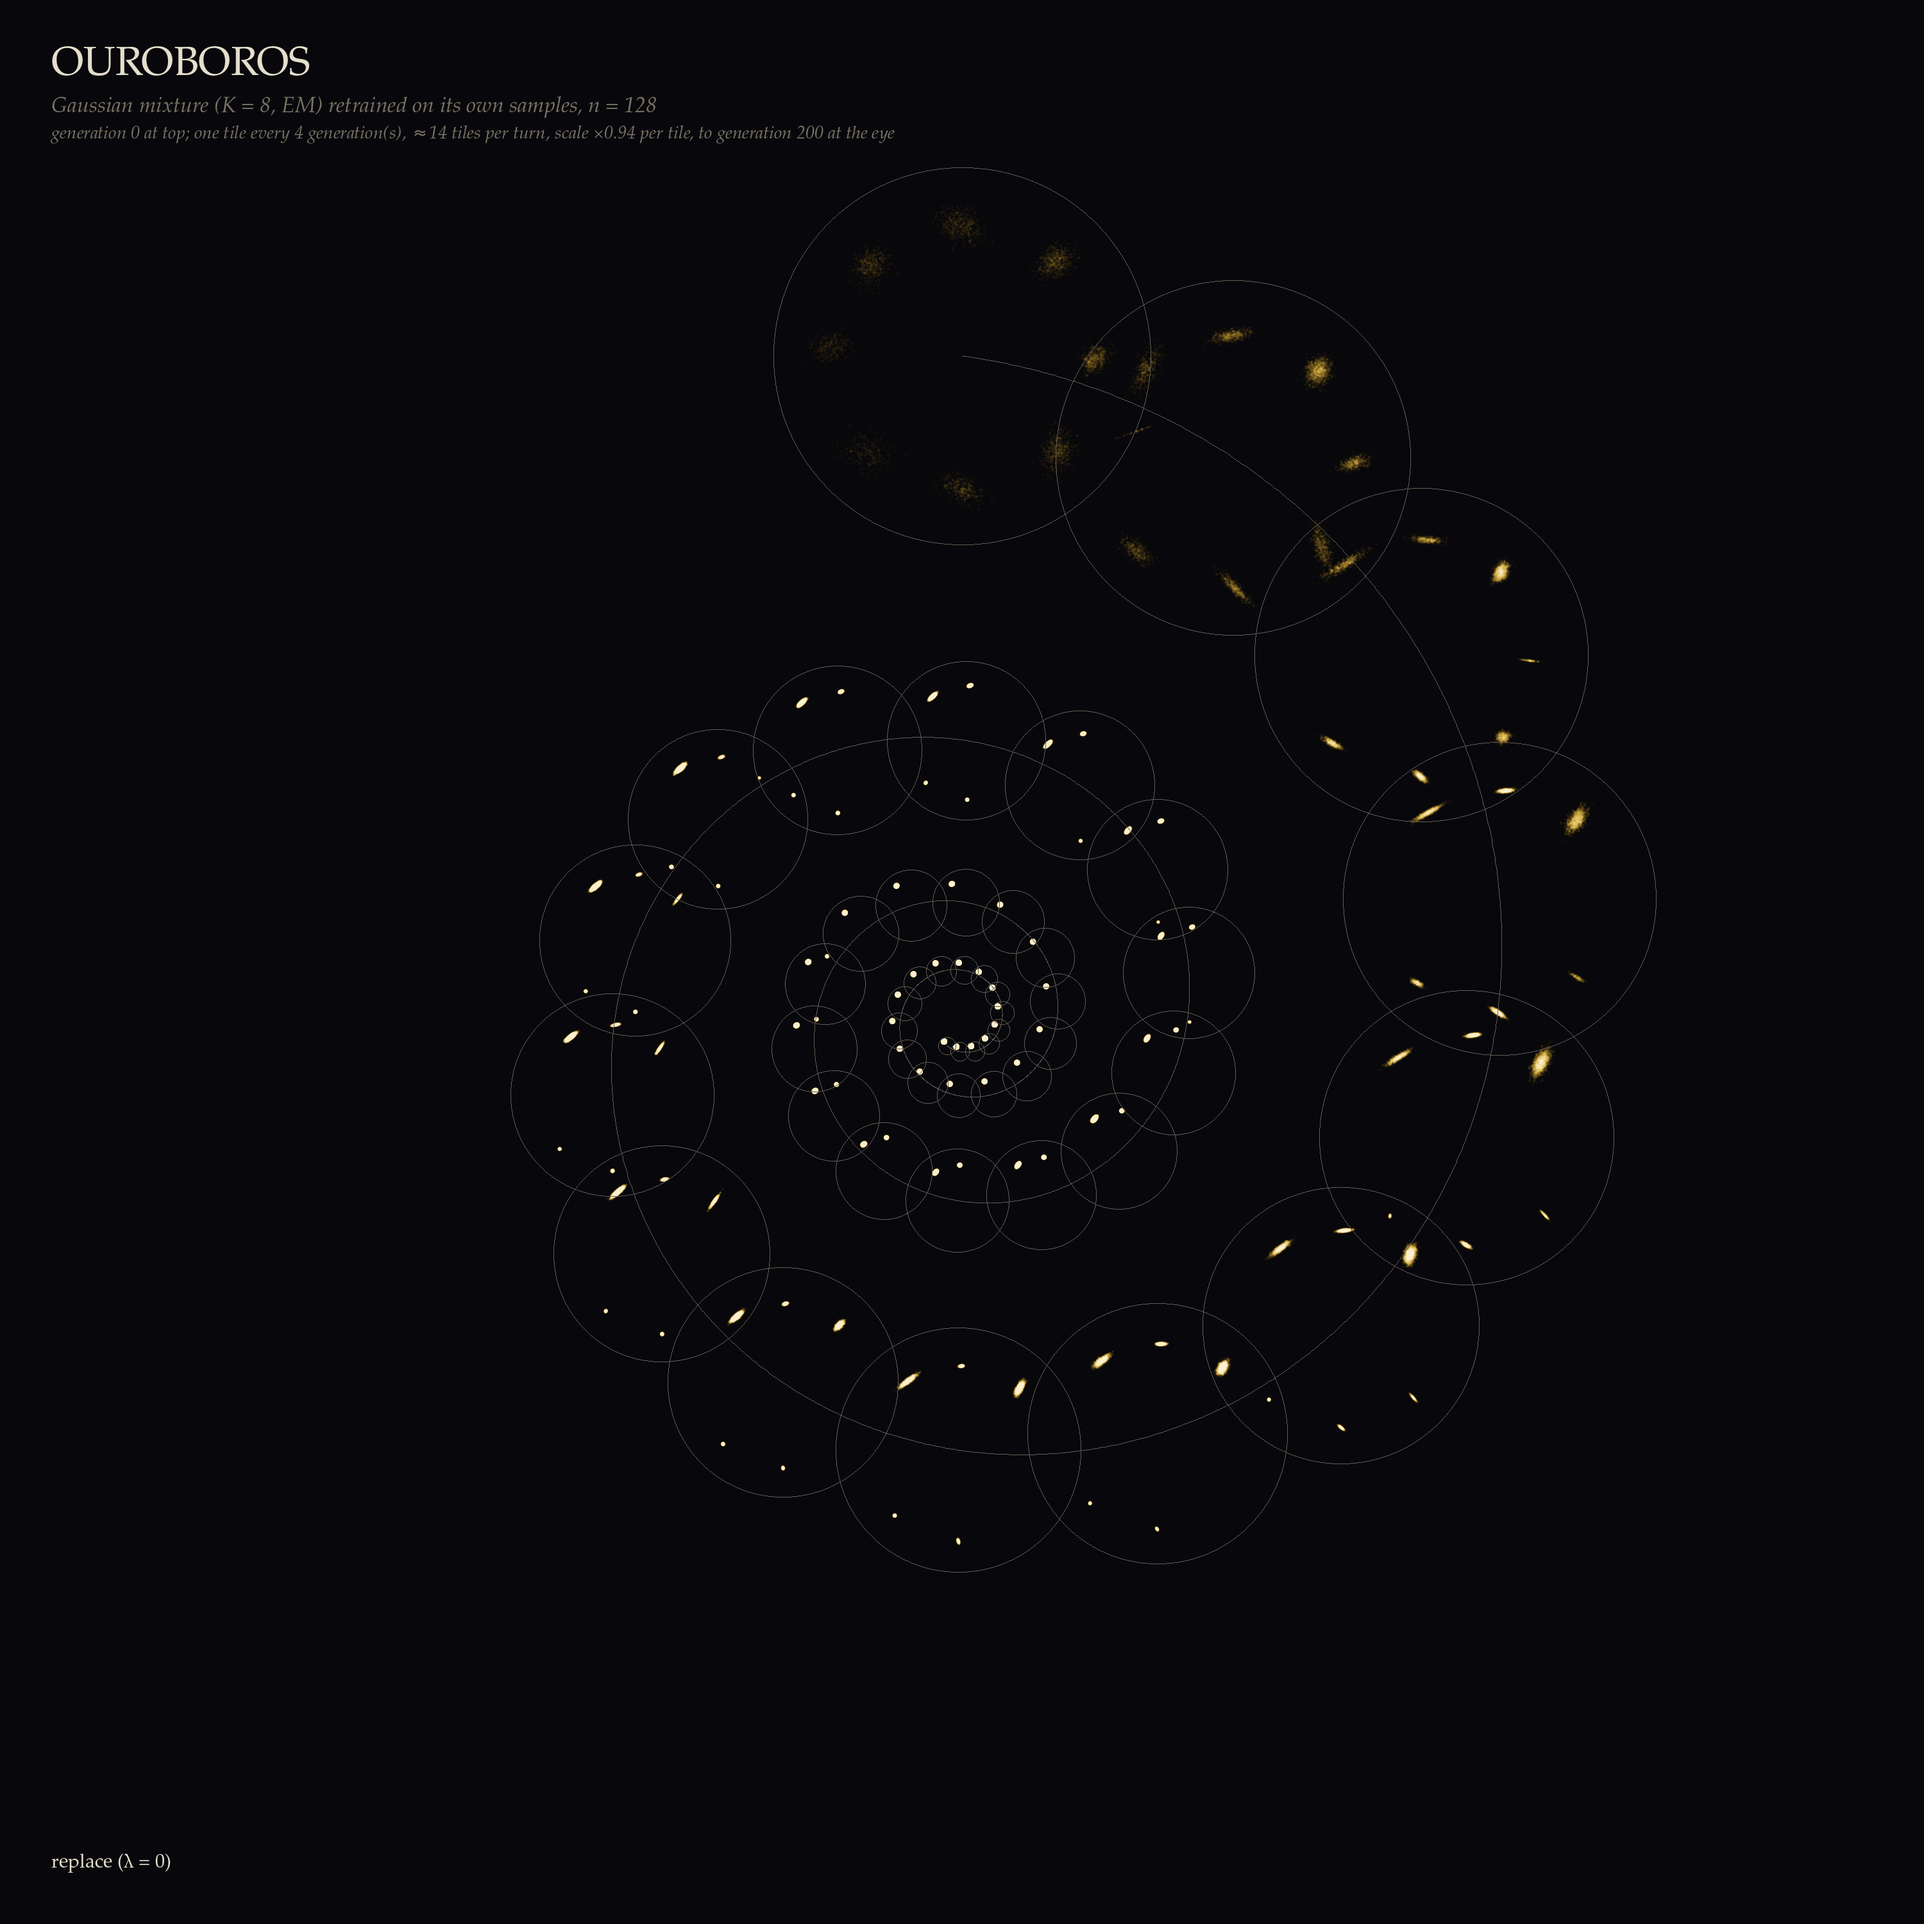
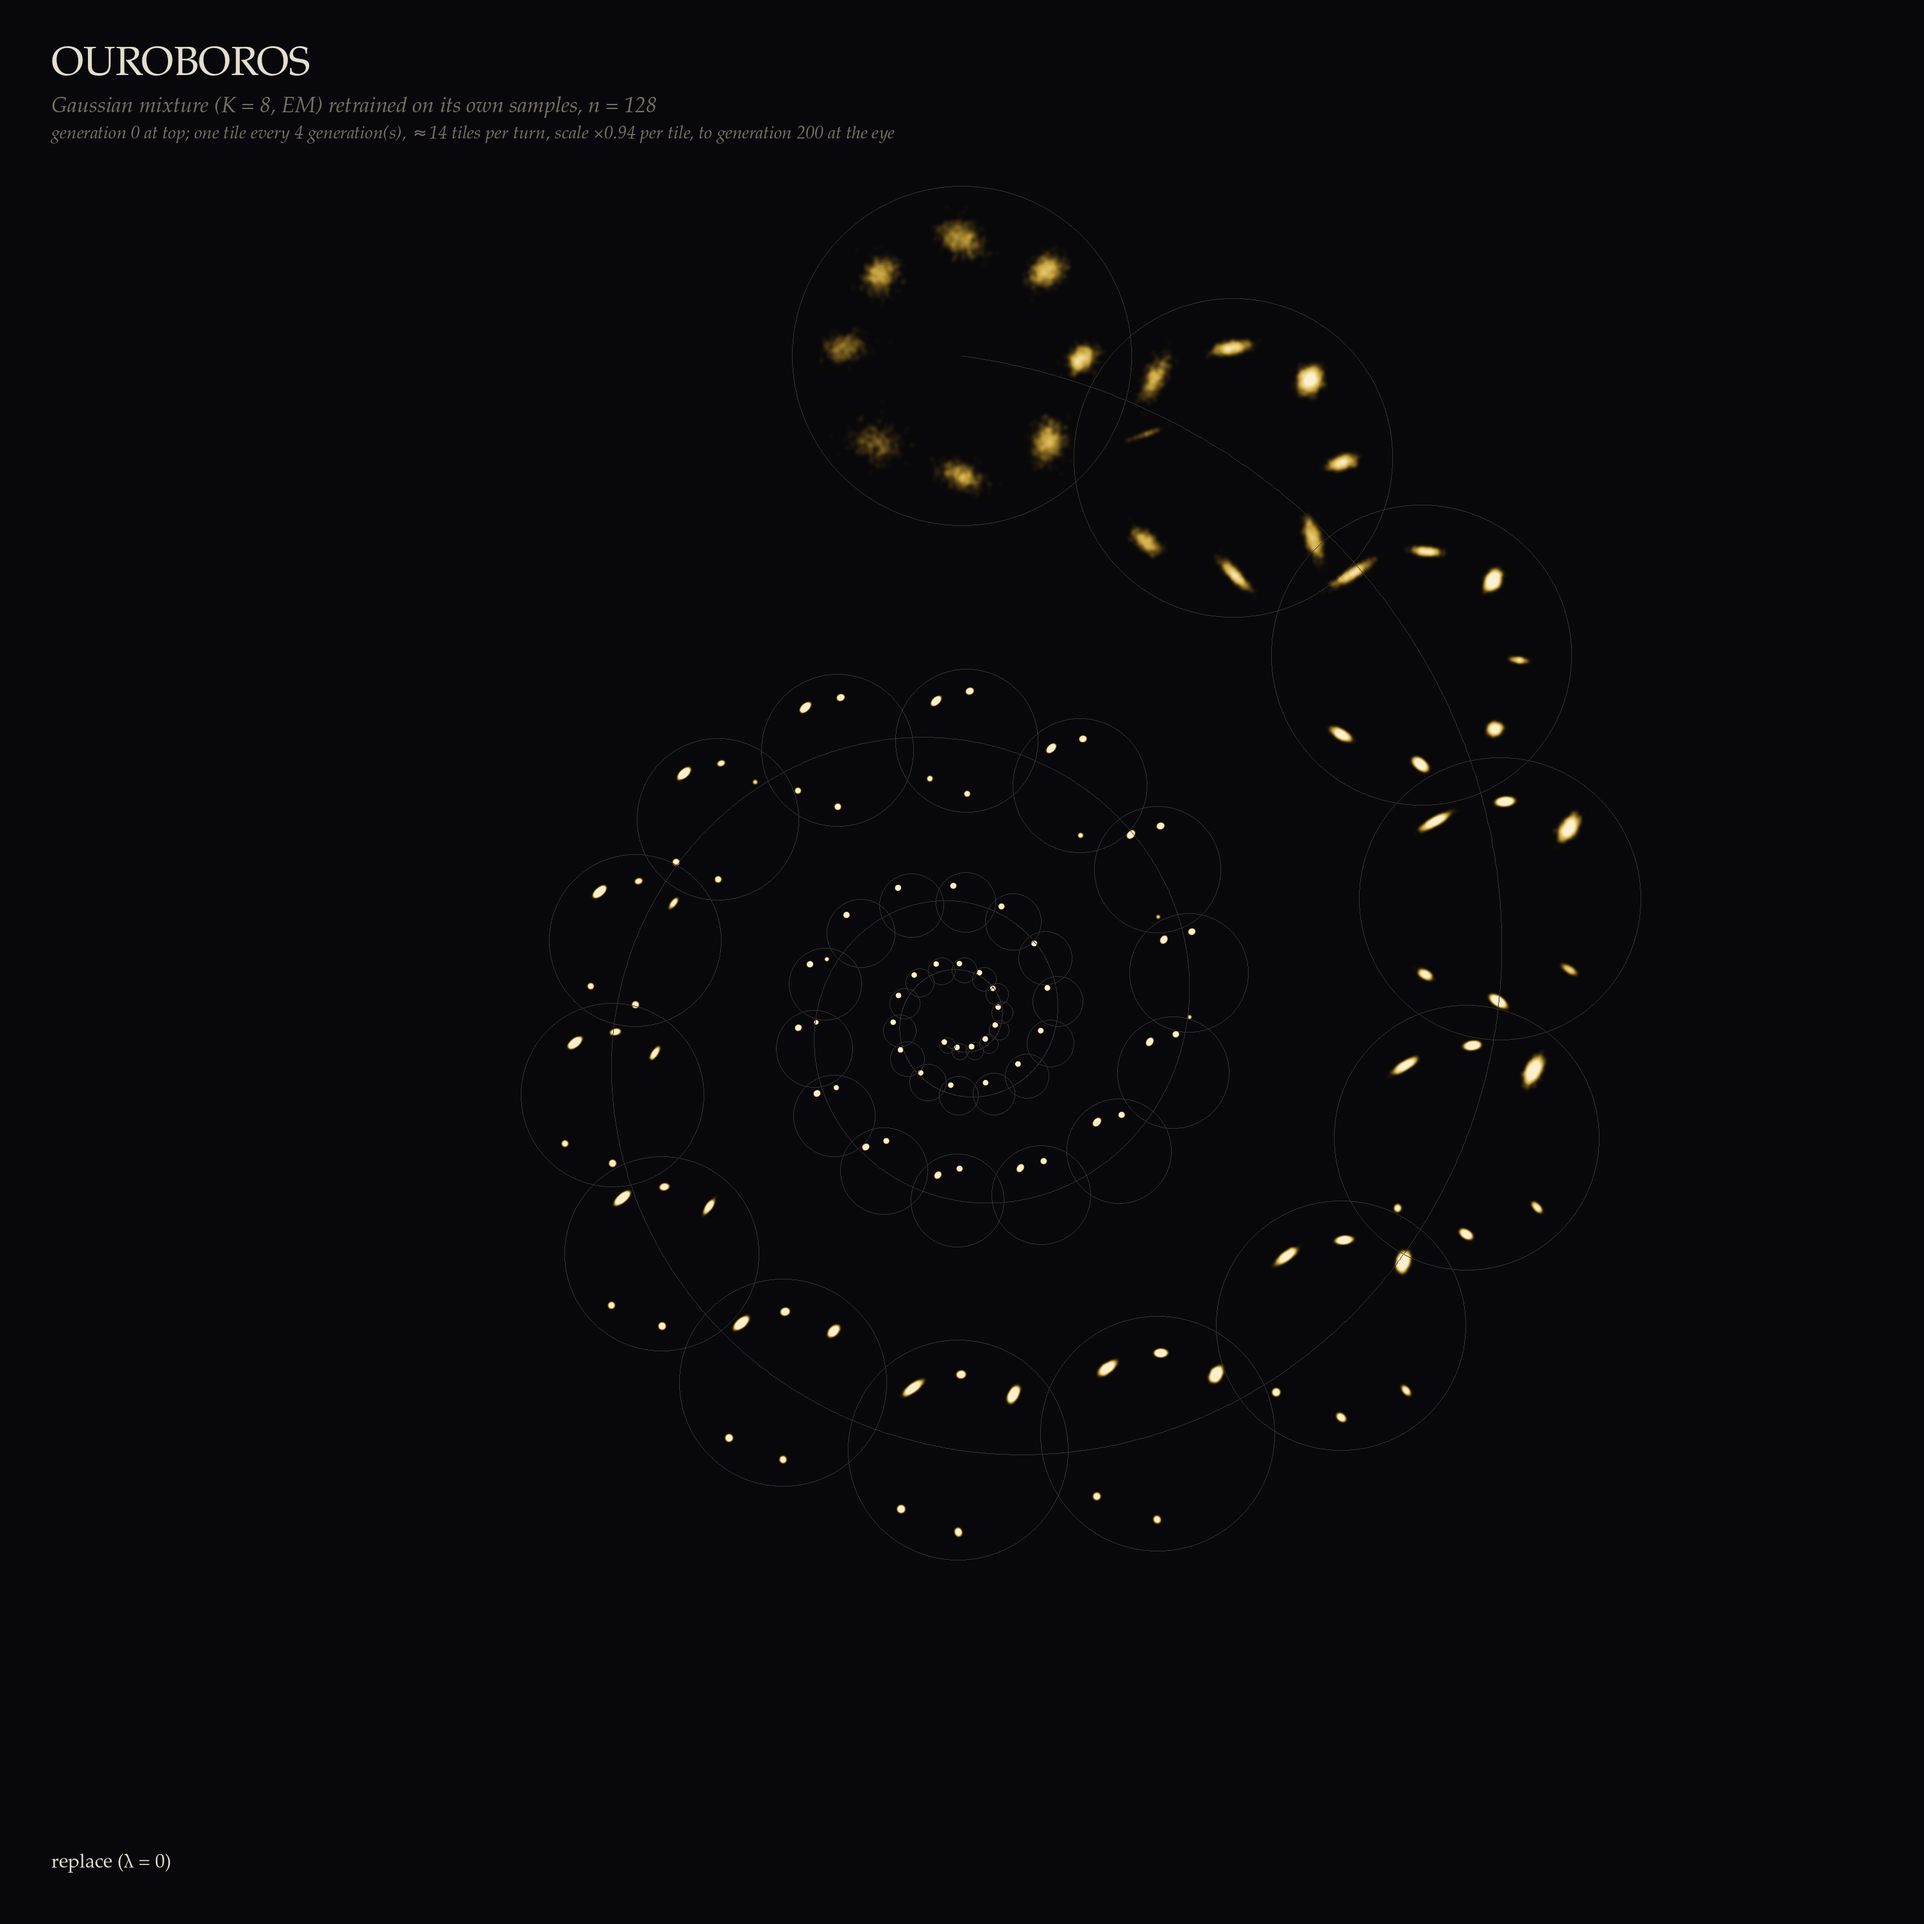
art/ouroboros: fern botanical sheets, spiral tile tone fix, riso two-arm spiral

diff --git a/art/ouroboros/render_spiral.py b/art/ouroboros/render_spiral.py
@@ -18,7 +18,7 @@ ap.add_argument("--arms", default="replace"); ap.add_argument("--G", type=int, d
 ap.add_argument("--size", type=int, default=3000); ap.add_argument("--r", type=float, default=0.972)
 ap.add_argument("--dtheta", type=float, default=0.30); ap.add_argument("--tile", type=float, default=0.155)
 ap.add_argument("--cmap", default="klimt_gold"); ap.add_argument("--name", default="")
-ap.add_argument("--nocap", action="store_true"); ap.add_argument("--stride", type=int, default=1)
+ap.add_argument("--nocap", action="store_true"); ap.add_argument("--wexp", type=float, default=1.0); ap.add_argument("--stride", type=int, default=1)
 a = ap.parse_args()
 
 d = np.load(a.cache)
@@ -43,12 +43,21 @@ for ai, arm in enumerate(arms):
         px = c[0] + X[:, 0] / S.EXT[1] * half
         py = c[1] - X[:, 1] / S.EXT[1] * half
         ok = (px >= 0) & (px < Wd - 1) & (py >= 0) & (py < Hd - 1)
-        # bilinear splat, weight normalised by tile area so ink density per unit data area is constant
-        w = (60.0 / max(half, 1.0)) ** 2 / len(X) * 4000
+        # bilinear splat into a local patch; blur grows with tile size (sigma ~ half/90 px) and ink per sample
+        # scales as (60/half)^a.wexp (declared tone choice: wexp=2 conserves density per data area, which made the
+        # big outer tiles vanishingly faint; default 1 keeps them legible while inner tiles still read denser)
+        w = (60.0 / max(half, 1.0)) ** a.wexp / len(X) * 4000 * (1.0 + (half / 90.0) ** 2)
         x0, y0 = np.floor(px[ok]).astype(int), np.floor(py[ok]).astype(int)
         fx, fy = px[ok] - x0, py[ok] - y0
+        pad = int(half * 1.1) + 8
+        bx0, by0 = max(int(c[0]) - pad, 0), max(int(c[1]) - pad, 0)
+        bx1, by1 = min(int(c[0]) + pad, Wd), min(int(c[1]) + pad, Hd)
+        patch = np.zeros((by1 - by0, bx1 - bx0))
         for dx, dy, ww in ((0, 0, (1 - fx) * (1 - fy)), (1, 0, fx * (1 - fy)), (0, 1, (1 - fx) * fy), (1, 1, fx * fy)):
-            np.add.at(canvas[ai], (y0 + dy, x0 + dx), w * ww)
+            yy, xx = y0 + dy - by0, x0 + dx - bx0
+            k = (yy >= 0) & (yy < patch.shape[0]) & (xx >= 0) & (xx < patch.shape[1])
+            np.add.at(patch, (yy[k], xx[k]), (w * ww)[k])
+        canvas[ai][by0:by1, bx0:bx1] += gaussian_filter(patch, max(0.0, half / 90.0))
 
 sig = a.size / 3000 * 1.0
 dens = [gaussian_filter(cv, sig) for cv in canvas]
@@ -70,9 +79,7 @@ elif a.style == "paper":
         img = img * (1 - al) + ink * al
     fg, dim = S.INK["iron_gall"], (120, 110, 96)
 else:  # riso: two spot inks multiplied (declared), slight misregistration of the second drum
-    paper = np.array(P_ := S.P.RISO_PAPER if hasattr(S.P, "RISO_PAPER") else "#f4efe4")
-    base = np.array(S.P.hex2rgb(paper) if isinstance(paper.item(), str) else paper, float)
-    base = base * (255 if base.max() <= 1 else 1)
+    base = np.asarray(S.P.hex2rgb(getattr(S.P, "RISO_PAPER", "#f4efe4")), float) * 255
     inks = [np.array([255, 72, 176], float), np.array([0, 120, 191], float)]
     img = np.tile(base, (Hd, Wd, 1))
     for i, (v, ink) in enumerate(zip(V, inks)):
@@ -85,7 +92,7 @@ else:  # riso: two spot inks multiplied (declared), slight misregistration of th
 im = Image.fromarray(np.clip(img, 0, 255).astype(np.uint8))
 # declared guides: the spiral path and each tile's data window (a circle inscribed in the tile)
 gd = ImageDraw.Draw(im)
-guide = tuple(int(0.8 * c + 0.2 * g) for c, g in zip(dim, img[5, 5]))
+guide = tuple(int(0.4 * c + 0.6 * g) for c, g in zip(dim, img[5, 5]))
 for ai in range(len(arms)):
     ii = np.linspace(0, len(range(0, G + 1, a.stride)) - 1, 4000)
     th = np.pi / 2 + np.pi * ai - a.dtheta * ii
@@ -107,7 +114,7 @@ if not a.nocap:
     dr.text((80 * u, 150 * u), f"{MODEL} retrained on its own samples, n = {n}", font=S.font("serif_it", int(34 * u)), fill=dim)
     dr.text((80 * u, 195 * u), f"generation 0 at top; one tile every {a.stride} generation(s), ≈{2*np.pi/a.dtheta:.0f} tiles per turn, scale ×{a.r} per tile, "
             f"to generation {G} at the eye", font=S.font("serif_it", int(28 * u)), fill=dim)
-    dr.text((80 * u, Hd - 110 * u), " · ".join(lab[x] for x in arms) + ("   (second arm: point reflection)" if len(arms) > 1 else ""),
+    dr.text((80 * u, Hd - 110 * u), " · ".join((["fluorescent pink: ", "blue: "][i] if a.style == "riso" else "") + lab[x] for i, x in enumerate(arms)) + ("   (second arm: point reflection)" if len(arms) > 1 else ""),
             font=S.font("serif", int(30 * u)), fill=fg)
 name = a.name or f"spiral_{target}_{model}_{'-'.join(arms)}_{a.style}.png"
 S.save(im, name)

diff --git a/art/ouroboros/render_fern.py b/art/ouroboros/render_fern.py
@@ -74,7 +74,7 @@ lab = {"replace": "replaced each generation (λ = 0)", "anchored": "a quarter of
 if a.mode == "sheet":
     cols = 1 + len(gens)
     pw, ph = 520, 900
-    gx, gy = 40, 170
+    gx, gy = 40, 240
     ml, mt = 240, 420
     W = ml + cols * pw + (cols - 1) * gx + 120
     H = mt + len(regs) * ph + (len(regs) - 1) * gy + 260
@@ -103,7 +103,7 @@ if a.mode == "sheet":
             draw_panel(dr, box, X, comps_at(reg, g), INK, 0.9)
             sw = d[f"{reg}/sw2"][g]
             dr.text((Z(xb + 120), Z(yb + ph + 20)), f"gen. {g}", font=ital(34), fill=tuple(INK))
-            dr.text((Z(xb + 120), Z(yb + ph + 62)), f"W₂ {sw:.3f}", font=S.font("mono", 22 * SS), fill=tuple(INK))
+            dr.text((Z(xb + 120), Z(yb + ph + 62)), f"sliced W2 {sw:.3f}", font=S.font("mono", 22 * SS), fill=tuple(INK))
     for j in range(1):
         pass
     im = im.resize((W, H), Image.LANCZOS)
